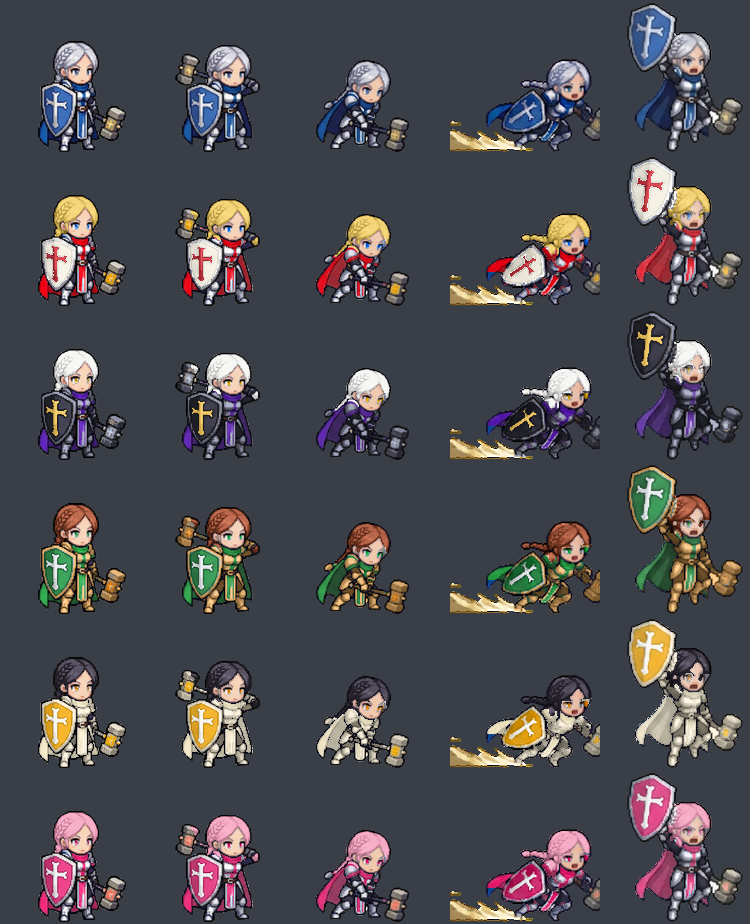
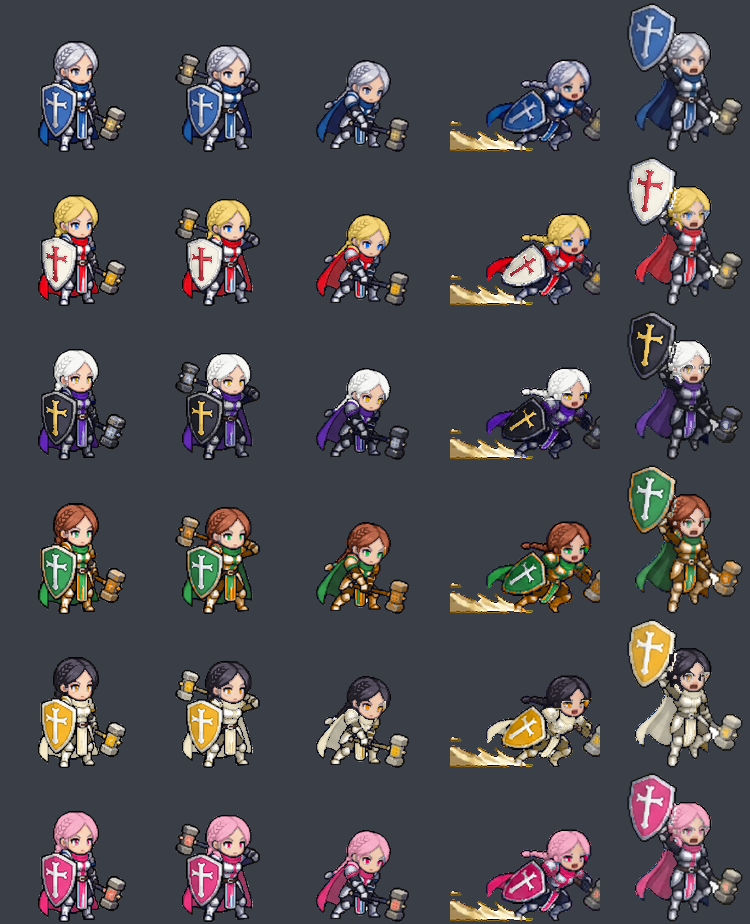
Paladin skins: fixes for the spots marked on the obsidian, forest, sun and rose sheets. Far eye of the turned face (judgment slam, charge, aegis) uses tight per-frame iris boxes and also picks the near-black iris of the aegis release by darkness; detected irises grow into their dim lower shading so 

diff --git a/tools/paladin_variants_build.py b/tools/paladin_variants_build.py
@@ -27,15 +27,17 @@ YY, XX = np.mgrid[0:H, 0:W]
 # 머리 덩어리가 팔·망치 자루에 가려 따로 떨어진 칸, 땋은 머리가 얼굴 상자 밖으로 뻗은 칸: 그 조각 안 한 점 (칸 안 x, y) — 상자로 자르지 않음
 HAIR_SEEDS = {12: [(155, 47), (136, 70)]}   # 12 정수리·왼팔 옆으로 늘어진 땋은 머리
 # 마디마다 어두운 선으로 끊겨 조각이 많은 땋은 머리: 이 상자 (x0, y0, x1, y1) 안 은색·회색은 모두 머리 (16 돌격 때 뒤로 날리는 땋은 머리)
-HAIR_BOXES = {16: [(131, 79, 158, 88)]}
+HAIR_BOXES = {16: [(131, 79, 158, 88)], 14: [(124, 69, 135, 77)], 19: [(139, 36, 146, 49)]}   # 14·19 방패 위에 걸친 땋은 머리 끝 (방패 테두리와 같은 은색이라 갑옷이 됐음)
 GOLD_XMIN = {16: 150}            # 돌격 칸의 흙먼지 꼬리(금빛 모래색)는 망치 장식이 아님 → 이 x보다 오른쪽 금색만
 DUST_RECTS = {16: [(0, 118, 105, 131), (0, 131, 123, 154), (0, 149, 150, 154)]}   # 흙먼지 꼬리 (x0, y0, x1, y1): 회백색 알갱이까지 어느 부위에도 안 넣음
 CLOSED_EYES = {5, 6, 7, 8, 17}   # 눈 감은 칸 (피격·쓰러짐·축성 기도): 눈동자가 없음 (이마 옆 푸른빛 머리카락을 눈으로 잡지 않게)
 DIM_EYES = {18, 19}              # 불굴의 가호 칸: 눈동자가 흐린 회청색이라 채도 0.21까지 눈으로 봄 (다른 칸은 0.3)
 # 얼굴이 돌아가 먼 쪽 눈이 얼굴 가장자리·옆머리에 걸친 칸: 그 눈 상자 (x0, y0, x1, y1). 상자 안 푸른 픽셀(채도 기준은 DIM_EYES면 0.15, 아니면 0.25)은 눈동자,
 #   나머지(흰자·속눈썹)는 머리·갑옷·망토 어디에도 안 넣고 그대로. 자동으로는 옆머리·뒤 망토와 못 가름 (16번은 홍채가 망토로 잡혀 빨간 얼룩이 됐음)
-HAIR_NOT = {9: [(182, 83, 189, 92)]}   # 머리로 잘못 이어진 자리 (x0, y0, x1, y1): 9번 치켜든 팔의 건틀릿 밝은 면이 옆머리 끝에 붙어 머리가 됐음 → 갑옷
-EYE_KEEP = {13: [(156, 86, 165, 96)], 16: [(189, 85, 197, 91)], 18: [(170, 64, 178, 73)], 19: [(173, 58, 180, 64)]}
+# 머리로 잘못 이어진 자리 (x0, y0, x1, y1) → 갑옷: 9번 치켜든 팔의 건틀릿 밝은 면과 망치 머리(땋은 머리 옆이라 한 덩어리), 16번 땋은 머리가 걸친 왼쪽 어깨 갑옷
+HAIR_NOT = {9: [(182, 83, 189, 92), (100, 40, 128, 80)], 16: [(156, 92, 171, 100)]}
+#   19번 먼 쪽 눈동자는 채도가 거의 0이라, 상자 안에서는 푸른 픽셀뿐 아니라 밝기 0.5 아래의 윤곽 아닌 픽셀도 눈동자로 봄
+EYE_KEEP = {13: [(156, 90, 161, 95)], 16: [(192, 86, 196, 90)], 18: [(172, 65, 178, 73)], 19: [(173, 58, 179, 64)]}
 
 # (번호, 이름, 부위별 목표 색) — 색표는 docs/paladin-skin-palette.md. 각 부위의 시트 전체 가운데 밝기·채도를 이 색에 맞추고 명암 차이는 살림. None = 그대로
 #   목표 색은 '가운데' 색이라 원래 가운데 밝기(갑옷 0.48, 망토 0.34)를 생각해서 잡음: 1·5 갑옷은 은색 그대로, 4 상아 갑옷·크림 망토는 밝기를 낮춰 명암을 남김
@@ -139,7 +141,8 @@ def seg(f, idx=None):
             for _, _, c in sorted([c for c in comps if c[1] >= th], key=lambda c: -c[0])[:2]: eyes |= c
         eyerect = np.zeros_like(A)
         for x0, y0, x1, y1 in EYE_KEEP.get(idx, []): eyerect[y0:y1 + 1, x0:x1 + 1] = True
-        eyes |= eyerect & A & ~outline & ~face & (h > 190) & (h < 275) & (s > (0.15 if idx in DIM_EYES else 0.25))
+        eyes |= eyerect & A & ~outline & ~face & (((h > 190) & (h < 275) & (s > 0.1)) | (v < 0.5))
+        for _ in range(2): eyes |= cand & fhull & ndi.binary_dilation(eyes, K8)   # 홍채 아래쪽 흐린 그늘(채도 0.1~0.3)까지 눈동자 (안 넣으면 눈 반이 회청색으로 남음)
         # 머리: 얼굴 위쪽에 닿은 은빛 조각들 + 거기 이어진 조각 (어두운 선은 벽, 방패 둘레는 뺌)
         Rb = R & (v >= 0.3) & ~eyes & ~ndi.binary_dilation(sh_full, K8, iterations=1)   # 방패와 1px 테두리만 뺌 (4px를 빼니 방패에 가려진 머리 조각이 갑옷이 됐음)
         # 눈 흰자·눈동자 회색 조각 (얼굴 안 가운데 띠에 들어 있는 작은 조각)은 머리가 아님
@@ -159,7 +162,7 @@ def seg(f, idx=None):
         seeded = np.zeros_like(A)
         for sx, sy in HAIR_SEEDS.get(idx, []):
             if lr[sy, sx]: seeded |= lr == lr[sy, sx]
-        for x0, y0, x1, y1 in HAIR_BOXES.get(idx, []): seeded[y0:y1 + 1, x0:x1 + 1] |= R[y0:y1 + 1, x0:x1 + 1]
+        for x0, y0, x1, y1 in HAIR_BOXES.get(idx, []): seeded[y0:y1 + 1, x0:x1 + 1] |= (R & ~sh_full)[y0:y1 + 1, x0:x1 + 1]
         hair |= seeded; box = box | ndi.binary_dilation(seeded, K8, iterations=3)
         # 머리 덩어리에 이어진 작은 조각(땋은 머리 마디): 둘레 2px 안에서 닿고 거의 다 얼굴 상자 둘레 안에 있는 것
         for _ in range(4):
@@ -180,6 +183,12 @@ def seg(f, idx=None):
             grab = facebits & ndi.binary_dilation(hair, K8) & ~eyezone & (v > 0.5)
             if not grab.any(): break
             hair |= grab; facebits &= ~grab
+        # 귀 뒤·턱 옆의 따뜻한 회색(색상 330~40도, 채도 0.15 아래)은 살 그늘: 살에 닿은 40px 이하 조각은 머리가 아님 (백발에서 턱 옆이 하얗게 됐음)
+        warm = A & ~outline & ((h < 40) | (h > 330)) & (s < 0.15) & (v >= 0.25) & ~facez
+        lw, nw = ndi.label(warm, K8); near_skin = ndi.binary_dilation(skin, K8)
+        for j in range(1, nw + 1):
+            c = lw == j
+            if c.sum() <= 40 and (c & near_skin).any(): facebits |= c
         keep = ndi.binary_dilation(eyes, K8, iterations=2) | eyerect | facebits   # 눈 둘레 흰자·속눈썹 회색은 머리가 아님
         hair &= ~keep
     # 작은 파란 점(8px 이하): 둘레가 머리면 머리(땋은 머리의 푸른 그늘), 은색 금속이면 갑옷(갑옷에 비친 파란빛) — 망토색으로 칠하면 점이 튐
@@ -191,22 +200,21 @@ def seg(f, idx=None):
         if not ring.any(): continue
         if hair[ring].mean() >= 0.5: hair |= c
         elif (R & ~hair & (s < 0.3))[ring].mean() >= 0.5: blue &= ~c; R |= c
-    for x0, y0, x1, y1 in HAIR_NOT.get(idx, []): hair[y0:y1 + 1, x0:x1 + 1] = False
     cape = blue & ~shield & ~eyes & ~hair
     if face is not None: cape &= ~eyerect   # 먼 쪽 눈 상자 안 남은 픽셀(흰자·속눈썹)은 망토도 아님
     cape &= ~((v < 0.3) & ndi.binary_dilation(hair, K8))   # 머리 둘레의 짙은 남색 선은 윤곽 (망토색으로 칠하면 머리 테두리가 깨짐)
     # 갑옷 판 사이로 비치는 파란 천: 작은 조각(30px 이하, 둘레 6할 넘게 갑옷·윤곽)은 통째로, 큰 조각(둘레 7할 넘게 갑옷·윤곽, 절반 가까이 어두움)은
     #   어두운 부분(밝기 0.4 아래)만 갑옷으로. 망토색으로 칠하면 빨간 외형에서 팔·다리에 핏자국 같은 얼룩이 됐음 (은색·검정 갑옷의 그늘로 두는 편이 자연스러움)
     #   진짜 망토(등 뒤로 늘어진 것)는 바깥쪽이 배경과 닿으니 뺌: 윤곽선 너머 3px 둘레의 3% 넘게 배경이면 그대로 망토
-    metal = (R & (s < 0.3) & ~hair) | outline
+    metal = (R & ((s < 0.3) | (v < 0.42)) & ~hair) | outline   # 은색 금속 + 어두운 남색(바지·장갑)도 벽으로 (남색에 둘러싸인 점이 망토색으로 남았음)
     lc, nc = ndi.label(cape, K8)
     for j in range(1, nc + 1):
         c = lc == j
         ring = ndi.binary_dilation(c, K8) & ~c & A; outer = ndi.binary_dilation(c, K8, iterations=3) & ~c
-        if not ring.any() or (~A)[outer].mean() > 0.03: continue
+        if not ring.any(): continue
         mr = metal[ring].mean(); dk = c & (v < 0.4)
-        if c.sum() <= 30 and mr >= 0.6: cape &= ~c; R |= c
-        elif mr >= 0.7 and dk.sum() >= 0.45 * c.sum(): cape &= ~dk; R |= dk
+        if c.sum() <= 30 and mr >= 0.6: cape &= ~c; R |= c   # 작은 조각(부츠·다리의 천 틈)은 배경에 닿아도 갑옷
+        elif (~A)[outer].mean() <= 0.03 and mr >= 0.7 and dk.sum() >= 0.45 * c.sum(): cape &= ~dk; R |= dk
     # 머리 사이에 낀 푸른 그늘(키운 칸의 땋은 머리 결)은 뒤 망토와 이어져 있어도 머리: 8이웃 중 5개 넘게 머리인 망토 픽셀을 두 번 거둠
     for _ in range(2):
         cnt = ndi.convolve(hair.astype(np.uint8), np.ones((3, 3), np.uint8), mode='constant') - hair
@@ -240,9 +248,17 @@ def seg(f, idx=None):
         grab = edge & (nearest == k) & (dmin <= 3) & ~mm
         for other in parts: other &= ~grab
         mm |= grab
+    # 머리로 잘못 이어진 자리는 맨 끝에 빼고 갑옷으로 (앞 규칙들이 머리를 계속 보태니 여기서). 머리·갑옷이 겹치면 갑옷 (갑옷을 안 바꾸는 외형에서 머리색이 비쳤음)
+    for x0, y0, x1, y1 in HAIR_NOT.get(idx, []):
+        box_ = np.zeros_like(A); box_[y0:y1 + 1, x0:x1 + 1] = True
+        armor |= hair & box_ & (s < 0.3); hair &= ~box_
+    hair &= ~armor
+    # 어느 부위에도 안 들어간 어두운 남색(바지 주름·장갑·망치 자루·천 틈 그늘): 외형마다 색을 바꾸는 대신 채도만 낮춰 검은 갑옷 그늘처럼 (크림·분홍 외형에서 파란 점으로 남았음)
+    navy = A & ~outline & ~skin & ~facez & (v >= 0.16) & (v < 0.42) & (h >= 195) & (h < 275) & (s > 0.2)
+    for mm in (hair, eyes, armor, cape, shield, cross, gold): navy &= ~mm
     for x0, y0, x1, y1 in DUST_RECTS.get(idx, []):
-        for mm in (hair, eyes, armor, cape, shield, cross, gold): mm[y0:y1 + 1, x0:x1 + 1] = False
-    return {'hair': hair, 'eyes': eyes, 'armor': armor, 'cape': cape, 'shield': shield, 'cross': cross, 'gold': gold, 'hsv': (h, s, v)}
+        for mm in (hair, eyes, armor, cross, gold, navy): mm[y0:y1 + 1, x0:x1 + 1] = False   # 망토·방패(파랑)는 먼지와 안 섞이니 그대로
+    return {'hair': hair, 'eyes': eyes, 'armor': armor, 'cape': cape, 'shield': shield, 'cross': cross, 'gold': gold, 'navy': navy, 'hsv': (h, s, v)}
 
 
 def hex_hsv(c):
@@ -262,6 +278,10 @@ def map_v(v, mv, tv, lo, hi):
 def recolor(f, masks, spec, med):
     h, s, v = masks['hsv']
     out = f.copy()
+    m = masks['navy']
+    if m.any():   # 남색 그늘 → 같은 밝기의 거의 무채색 (채도 ×0.25)
+        rgb = hsv2rgb(np.stack([h[m] / 360., s[m] * 0.25, v[m]], -1)[None])[0]
+        out[m, :3] = (rgb * 255 + .5).clip(0, 255).astype(np.uint8)
     for k in PARTS:
         m = masks[k]
         if spec.get(k) is None or not m.any(): continue
